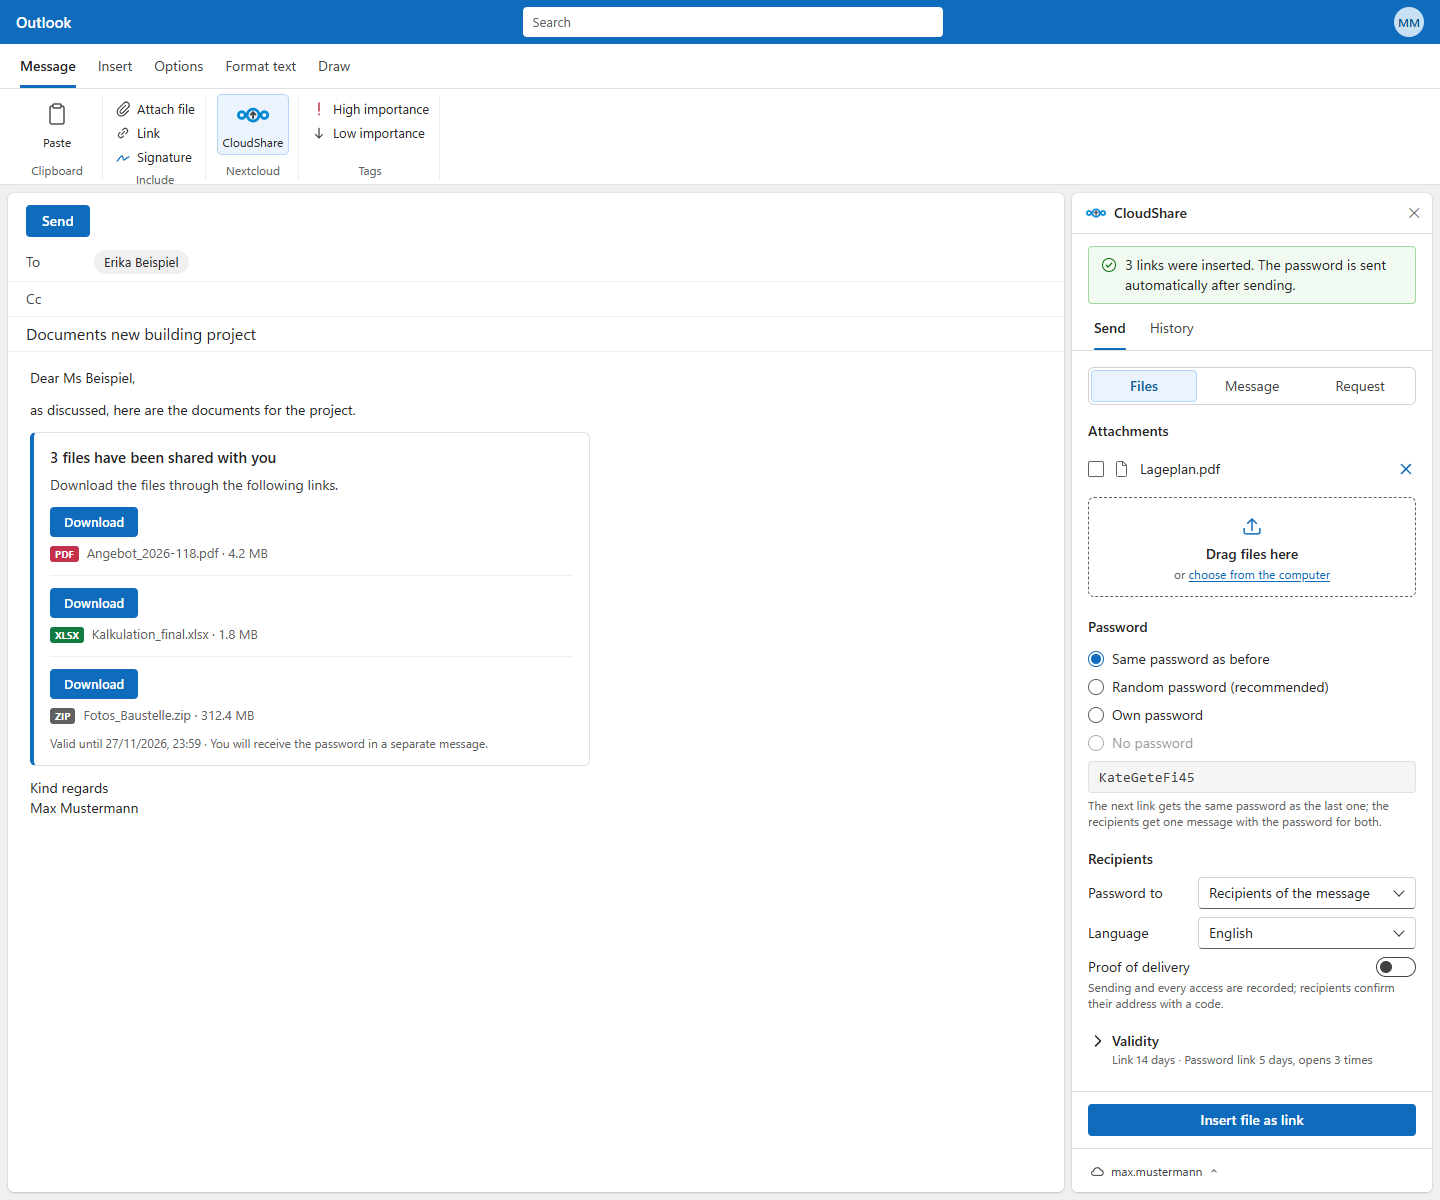
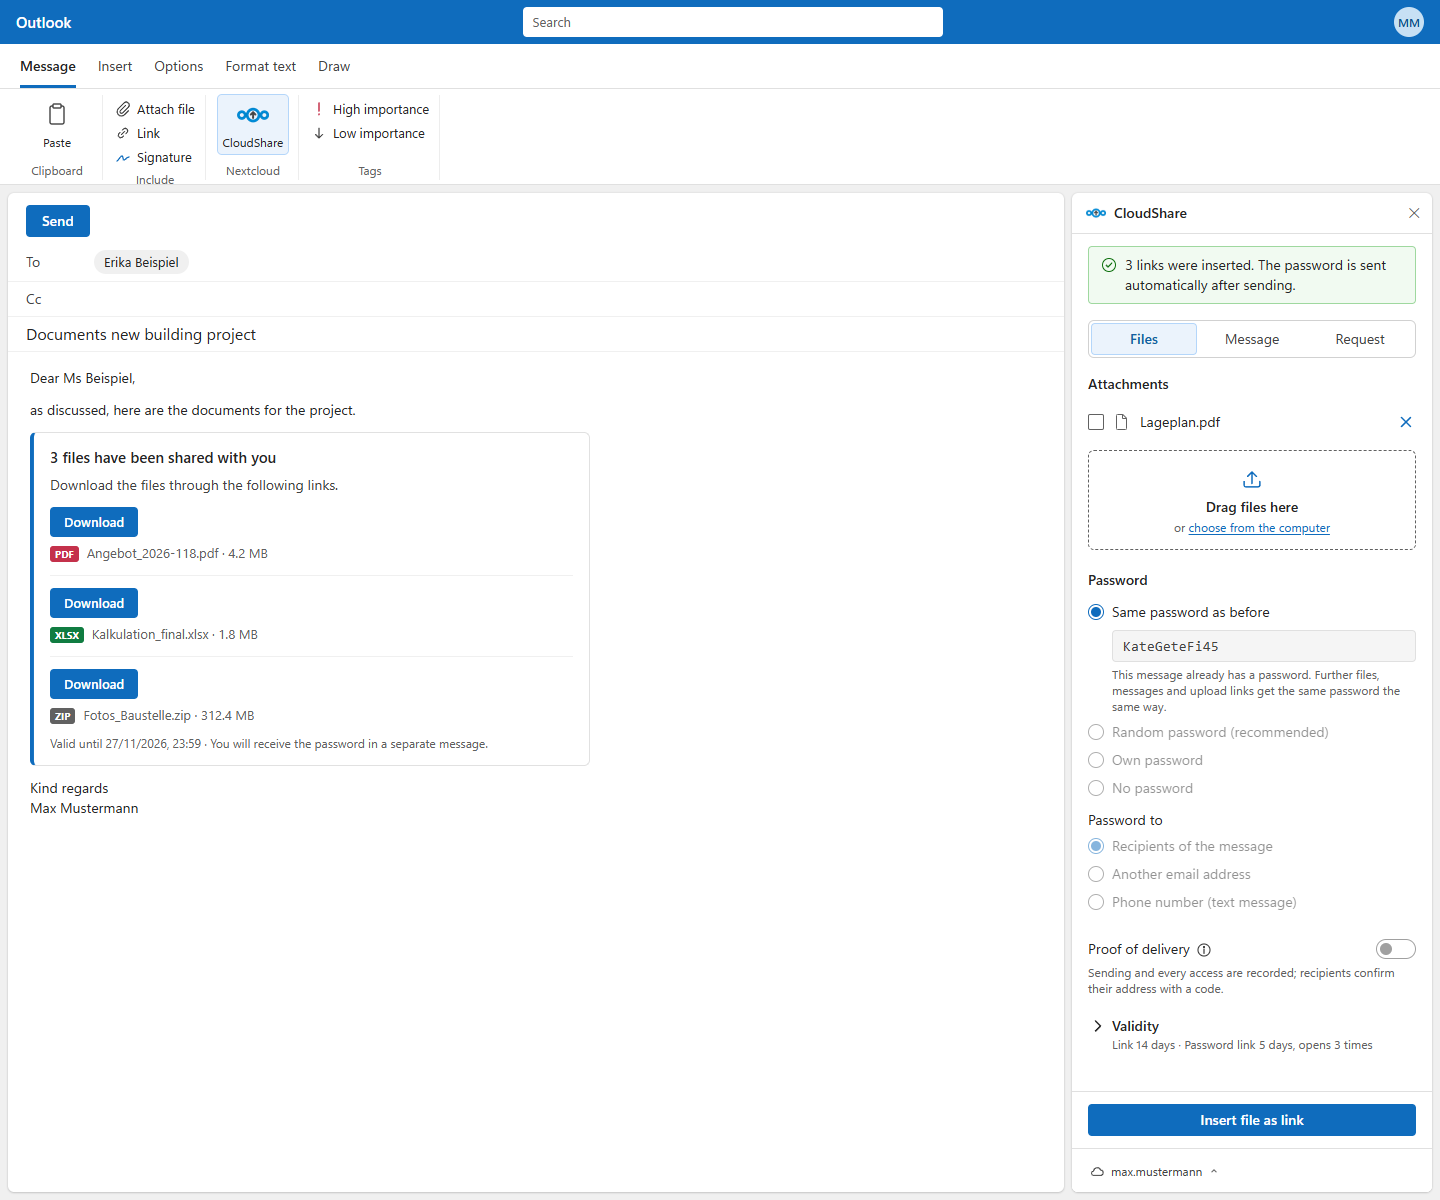
Compose mockup: current pane (no tabs, radio buttons, one password) (#115)
The picture outlook-compose.png still showed the tabs "Send/History", the
heading "Recipients", "Language" and "Password to" as selects. Re-rendered
from docs/mockups/compose-send.html with Edge: the pane after three links –
"Same password as before" with the field below it, the other choices and
"Password to" greyed out, "Proof of delivery" fixed with its "i".

Changed region(s): [[0.75, 0.4008, 0.9688, 0.8942], [0.75, 0.2467, 0.9688, 0.4008]]

diff --git a/docs/mockups/compose-send.html b/docs/mockups/compose-send.html
@@ -51,12 +51,6 @@
       <main class="pane">
         <div id="status" class="messagebar success"><svg class="icon" viewBox="0 0 16 16" aria-hidden="true"><circle cx="8" cy="8" r="6.5" fill="none" stroke="currentColor"/><path d="m5.3 8.2 1.8 1.8 3.6-3.8" fill="none" stroke="currentColor" stroke-width="1.3" stroke-linecap="round" stroke-linejoin="round"/></svg><span>3 links were inserted. The password is sent automatically after sending.</span></div>
         <section class="send-view">
-          <div class="tabbar">
-            <div class="tabs" role="tablist">
-              <button type="button" class="tab" aria-selected="true">Send</button>
-              <button type="button" class="tab" aria-selected="false">History</button>
-            </div>
-          </div>
           <div class="panel">
             <div class="content">
               <div class="segmented" role="radiogroup">
@@ -73,21 +67,28 @@
               </section>
 
               <h2 class="section-title" id="password-label">Password</h2>
-              <div class="field">
+              <!-- After the first links: one password per mail – "Same password as before", everything else greyed out. -->
+              <div class="field password-field">
                 <label class="radio"><input type="radio" checked><span class="dot"></span><span>Same password as before</span></label>
-                <label class="radio"><input type="radio"><span class="dot"></span><span>Random password (recommended)</span></label>
-                <label class="radio"><input type="radio"><span class="dot"></span><span>Own password</span></label>
-                <label class="radio"><input type="radio" disabled><span class="dot"></span><span>No password</span></label>
-                <div class="input-group">
+                <div class="input-group" id="password-group">
                   <input type="text" class="input mono" value="KateGeteFi45" readonly>
                 </div>
-                <p class="hint">The next link gets the same password as the last one; the recipients get one message with the password for both.</p>
+                <p class="hint" id="password-hint">This message already has a password. Further files, messages and upload links get the same password the same way.</p>
+                <label class="radio"><input type="radio" disabled><span class="dot"></span><span>Random password (recommended)</span></label>
+                <label class="radio"><input type="radio" disabled><span class="dot"></span><span>Own password</span></label>
+                <label class="radio"><input type="radio" disabled><span class="dot"></span><span>No password</span></label>
               </div>
-              <h2 class="section-title">Recipients</h2>
-              <div class="field recipients">
-                <div class="inline-row"><label class="inline-label">Password to</label><div class="select-wrap"><select class="input select"><option>Recipients of the message</option></select></div></div>
-                <div class="inline-row"><label class="inline-label">Language</label><div class="select-wrap"><select class="input select"><option>English</option></select></div></div>
-                <div class="switch-field"><label class="switch"><span class="switch-text">Proof of delivery</span><input type="checkbox" role="switch"><span class="switch-track"><span class="switch-thumb"></span></span></label><p class="hint">Sending and every access are recorded; recipients confirm their address with a code.</p></div>
+              <div class="field channel-field" id="password-to-field">
+                <span class="label channel-label">Password to</span>
+                <div class="channel-options" role="radiogroup">
+                  <label class="radio"><input type="radio" checked disabled><span class="dot"></span><span>Recipients of the message</span></label>
+                  <label class="radio"><input type="radio" disabled><span class="dot"></span><span>Another email address</span></label>
+                  <label class="radio"><input type="radio" disabled><span class="dot"></span><span>Phone number (text message)</span></label>
+                </div>
+              </div>
+              <div class="field switch-field proof-row">
+                <label class="switch"><span class="unavailable-label"><span class="switch-text">Proof of delivery</span><button type="button" class="btn btn-icon btn-subtle info-toggle why-toggle"><svg class="icon" viewBox="0 0 20 20" aria-hidden="true"><circle cx="10" cy="10" r="7.5" fill="none" stroke="currentColor" stroke-width="1.4"/><path d="M10 9v5" fill="none" stroke="currentColor" stroke-width="1.6" stroke-linecap="round"/><circle cx="10" cy="6.3" r=".95" fill="currentColor"/></svg></button></span><input type="checkbox" role="switch" disabled><span class="switch-track"><span class="switch-thumb"></span></span></label>
+                <p class="hint">Sending and every access are recorded; recipients confirm their address with a code.</p>
               </div>
               <div class="validity">
                 <button type="button" class="disclosure disclosure-block" aria-expanded="false"><svg class="icon chevron" viewBox="0 0 20 20"><path d="m7.5 5 5 5-5 5" fill="none" stroke="currentColor" stroke-width="1.5" stroke-linecap="round" stroke-linejoin="round"/></svg><span class="disclosure-text"><span class="disclosure-title">Validity</span><span class="disclosure-summary">Link 14 days · Password link 5 days, opens 3 times</span></span></button>
